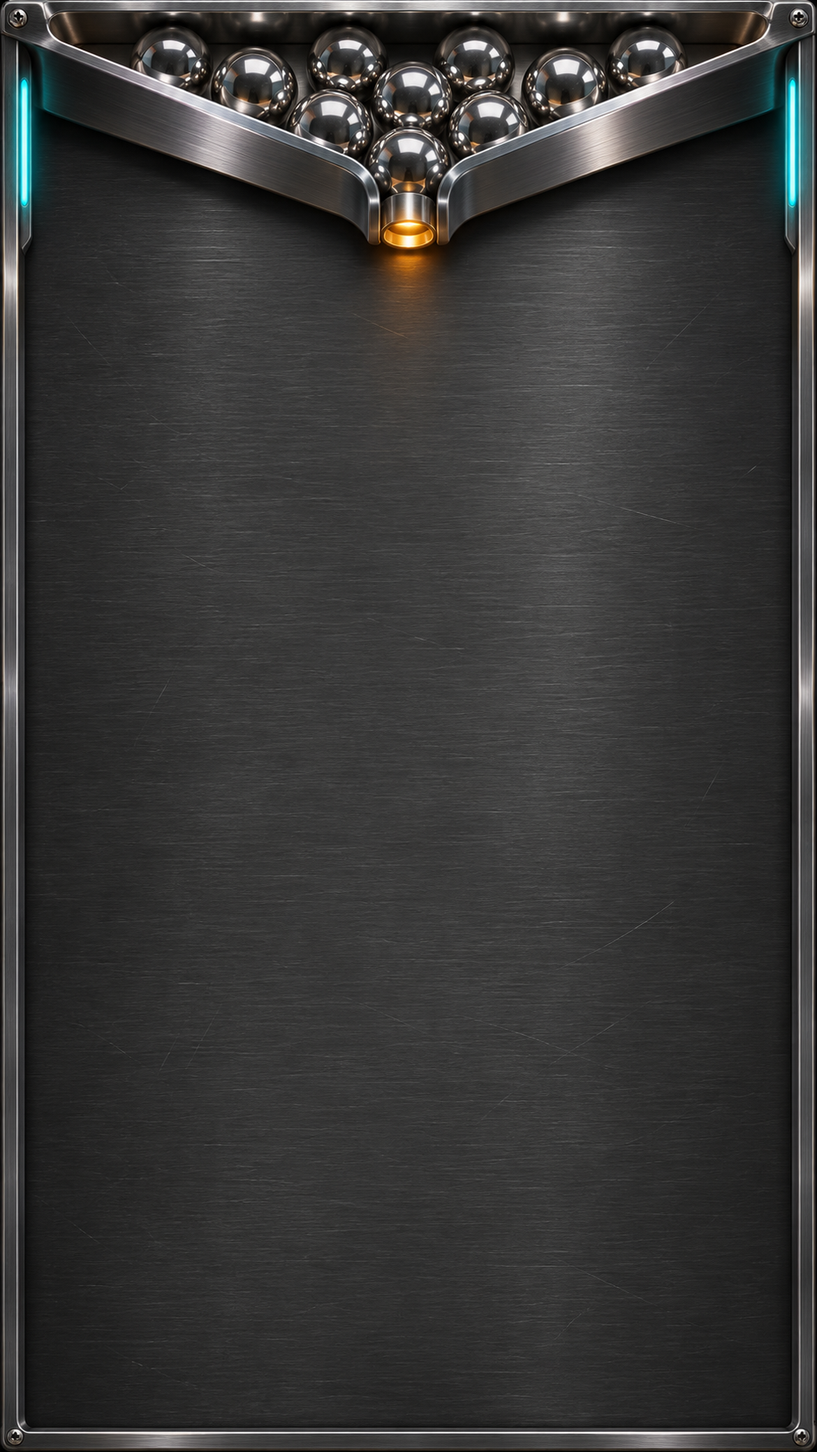
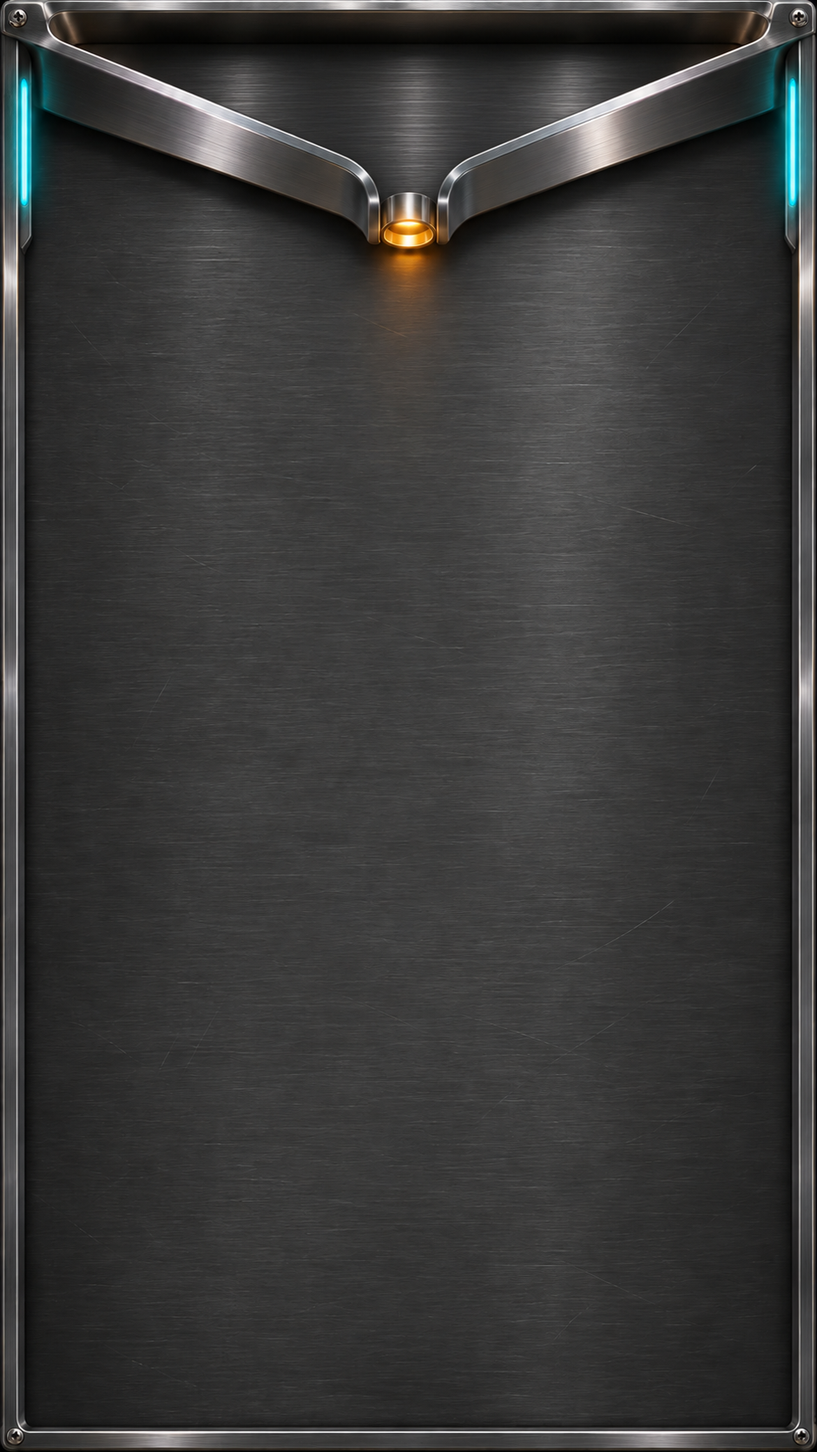
feat: switch to one larger ball with gravitational physics and no trails

diff --git a/src/game.ts b/src/game.ts
@@ -1,45 +1,50 @@
-import {collide,type Body,type Target} from './physics';
-export const W=420,H=720,LAUNCH={x:210,y:120},STEP=1/120;
+import {advanceFree,collide,reflect,type Body,type Target} from './physics';
+export const W=420,H=720,LAUNCH={x:210,y:132},STEP=1/120,GRAVITY=240,BALL_RADIUS=12;
 export type Phase='aim'|'volley'|'upgrade'|'over';
-export type Ball=Body&{age:number;trail:{x:number;y:number}[]};
+export type Ball=Body&{age:number};
 export type Effect={x:number;y:number;life:number;max:number;color:string;vx:number;vy:number;ring:boolean};
-export type Upgrade='swarm'|'power'|'field';
+export type Upgrade='elastic'|'power'|'field';
 export class Game{
- phase:Phase='aim';wave=1;score=0;bestCombo=0;combo=0;count=18;power=1;fieldLevel=0;balls:Ball[]=[];targets:Target[]=[];effects:Effect[]=[];
- angle=Math.PI/2;pending=0;timer=0;elapsed=0;paused=false;magnet:{x:number;y:number;life:number}|null=null;magnetUsed=false;nextId=0;seed:number;onHit:((kind:string)=>void)|null=null;
+ phase:Phase='aim';wave=1;score=0;bestCombo=0;combo=0;readonly count=1;power=3;restitution=.94;fieldLevel=0;balls:Ball[]=[];targets:Target[]=[];effects:Effect[]=[];
+ angle=Math.PI/2;elapsed=0;paused=false;magnet:{x:number;y:number;life:number}|null=null;magnetUsed=false;nextId=0;seed:number;onHit:((kind:string)=>void)|null=null;
  constructor(seed=Date.now()){this.seed=seed>>>0;this.addRow(453);this.addRow(531);}
  random(){this.seed=(Math.imul(1664525,this.seed)+1013904223)>>>0;return this.seed/4294967296;}
- addRow(y:number){for(let col=0;col<5;col++){if(this.random()<.16&&col!==2)continue;const kind=(['steel','prism','capacitor'] as const)[Math.floor(this.random()*3)];const hp=Math.max(2,Math.round((5+this.wave*2.5)*(kind==='capacitor'?.6:kind==='prism'?1.2:1)));this.targets.push({id:this.nextId++,x:66+col*72,y,size:57,kind,hp,maxHp:hp,flash:0});}}
+ addRow(y:number){for(let col=0;col<5;col++){if(this.random()<.35&&col!==2)continue;const kind=(['steel','prism','capacitor'] as const)[Math.floor(this.random()*3)];const hp=Math.max(2,Math.round((2+this.wave*.65)*(kind==='capacitor'?.7:kind==='prism'?1.25:1)));this.targets.push({id:this.nextId++,x:66+col*72,y,size:57,kind,hp,maxHp:hp,flash:0});}}
  aim(x:number,y:number){this.angle=Math.max(.16,Math.min(Math.PI-.16,Math.atan2(Math.max(15,y-LAUNCH.y),x-LAUNCH.x)));}
- fire(){if(this.phase!=='aim'||this.paused)return false;this.phase='volley';this.pending=this.count;this.timer=0;this.elapsed=0;this.combo=0;this.magnetUsed=false;return true;}
+ fire(){if(this.phase!=='aim'||this.paused)return false;this.phase='volley';this.elapsed=0;this.combo=0;this.magnetUsed=false;this.balls=[{...LAUNCH,vx:Math.cos(this.angle)*350,vy:Math.sin(this.angle)*350,r:BALL_RADIUS,age:0}];return true;}
  field(x:number,y:number){if(this.phase!=='volley'||this.magnetUsed||this.paused)return false;this.magnet={x:Math.max(45,Math.min(375,x)),y:Math.max(185,Math.min(625,y)),life:3.8+this.fieldLevel*.8};this.magnetUsed=true;return true;}
  burst(x:number,y:number,color:string,n=12){for(let i=0;i<n;i++){const a=Math.PI*2*i/n,s=35+(i%4)*33;this.effects.push({x,y,life:.45,max:.45,color,vx:Math.cos(a)*s,vy:Math.sin(a)*s,ring:false});}this.effects.push({x,y,life:.45,max:.45,color,vx:0,vy:0,ring:true});if(this.effects.length>420)this.effects.splice(0,this.effects.length-420);}
  damage(t:Target,damage:number){if(t.hp<=0)return;t.hp-=damage;t.flash=.12;this.score+=10*damage;this.combo++;this.bestCombo=Math.max(this.bestCombo,this.combo);this.onHit?.(t.kind);
-  if(t.hp<=0){this.score+=75;this.burst(t.x,t.y,t.kind==='capacitor'?'#75f8fa':'#ffc572');if(t.kind==='capacitor')for(const other of this.targets){if(other.hp>0&&Math.hypot(t.x-other.x,t.y-other.y)<135)this.damage(other,3+this.power*2);}}
+  if(t.hp<=0){this.score+=75;this.burst(t.x,t.y,t.kind==='capacitor'?'#75f8fa':'#ffc572');if(t.kind==='capacitor')for(const other of this.targets){if(other.hp>0&&Math.hypot(t.x-other.x,t.y-other.y)<135)this.damage(other,2+this.power);}}
  }
- recall(){if(this.phase==='volley'){this.balls=[];this.pending=0;this.finish();}}
- finish(){this.balls=[];this.pending=0;this.magnet=null;this.targets=this.targets.filter(t=>t.hp>0);for(const t of this.targets)t.y-=78;
+ recall(){if(this.phase==='volley'){this.balls=[];this.finish();}}
+ finish(){this.balls=[];this.magnet=null;this.targets=this.targets.filter(t=>t.hp>0);for(const t of this.targets)t.y-=39;
   if(this.targets.some(t=>t.y-t.size/2<184)){this.phase='over';return;}
-  this.wave++;this.count=Math.min(80,this.count+2);this.addRow(609);this.phase=this.wave%3===0?'upgrade':'aim';
+  this.wave++;if(this.wave%2===0||this.targets.length===0)this.addRow(609);this.phase=this.wave%3===0?'upgrade':'aim';
  }
- upgrade(choice:Upgrade){if(this.phase!=='upgrade')return;if(choice==='swarm')this.count=Math.min(80,this.count+6);if(choice==='power')this.power++;if(choice==='field')this.fieldLevel++;this.phase='aim';}
+ upgrade(choice:Upgrade){if(this.phase!=='upgrade')return;if(choice==='elastic')this.restitution=Math.min(.99,this.restitution+.02);if(choice==='power')this.power++;if(choice==='field')this.fieldLevel++;this.phase='aim';}
  update(dt:number){if(this.paused)return;
   for(const t of this.targets)t.flash=Math.max(0,t.flash-dt);
   for(const p of this.effects){p.life-=dt;p.x+=p.vx*dt;p.y+=p.vy*dt;}this.effects=this.effects.filter(p=>p.life>0);
-  if(this.phase!=='volley')return;this.elapsed+=dt;this.timer-=dt;
-  if(this.pending>0&&this.timer<=0){this.pending--;this.timer+=.065;this.balls.push({...LAUNCH,vx:Math.cos(this.angle)*440,vy:Math.sin(this.angle)*440,r:5,age:0,trail:[]});}
+  if(this.phase!=='volley')return;this.elapsed+=dt;
   if(this.magnet){this.magnet.life-=dt;if(this.magnet.life<=0)this.magnet=null;}
-  for(const b of this.balls){b.age+=dt;b.trail.unshift({x:b.x,y:b.y});if(b.trail.length>9)b.trail.pop();
-   if(this.magnet){const dx=this.magnet.x-b.x,dy=this.magnet.y-b.y,d=Math.hypot(dx,dy);if(d<230&&d>12){const f=520*(1-d/260);b.vx+=dx/d*f*dt;b.vy+=dy/d*f*dt;}}
-   const speed=Math.hypot(b.vx,b.vy);b.vx=b.vx/speed*440;b.vy=b.vy/speed*440;
-   b.x+=b.vx*dt;b.y+=b.vy*dt;
-   if(b.x<18+b.r){b.x=18+b.r;b.vx=Math.abs(b.vx);}if(b.x>402-b.r){b.x=402-b.r;b.vx=-Math.abs(b.vx);}
-   if(b.y<117){b.y=117;b.vy=Math.abs(b.vy);}
-   // Collector returns balls that fall through. A bounded lifetime prevents shallow-orbit soft locks.
-   for(const t of this.targets){if(t.hp>0&&collide(b,t)){this.damage(t,this.power);break;}}
+  for(const b of this.balls){b.age+=dt;
+   // Substeps keep travel below half the radius, preventing tunnelling at high speed.
+   const steps=Math.max(1,Math.ceil((Math.hypot(b.vx,b.vy)+1000*dt)*dt/(b.r*.45))),h=dt/steps;
+   for(let sub=0;sub<steps;sub++){
+    let ax=0,ay=GRAVITY;
+    // A softened central force accelerates continuously; no speed reset or teleportation.
+    if(this.magnet){const dx=this.magnet.x-b.x,dy=this.magnet.y-b.y,d2=dx*dx+dy*dy;const strength=3200000/Math.pow(d2+80*80,1.5);ax+=dx*strength;ay+=dy*strength;}
+    advanceFree(b,h,ax,ay);
+    if(b.x<18+b.r){b.x=18+b.r;reflect(b,{x:1,y:0},this.restitution);}if(b.x>402-b.r){b.x=402-b.r;reflect(b,{x:-1,y:0},this.restitution);}
+    if(b.y<112+b.r){b.y=112+b.r;reflect(b,{x:0,y:1},this.restitution);}
+    for(const t of this.targets){if(t.hp<=0)continue;const vx=b.vx,vy=b.vy;if(collide(b,t,this.restitution)){
+      // Resting contact does not damage a target. Use the normal impact speed from the impulse.
+      if(Math.hypot(b.vx-vx,b.vy-vy)/(1+this.restitution)>55)this.damage(t,this.power);
+    }}
+   }
   }
-  this.balls=this.balls.filter(b=>b.y<692&&b.age<16);
-  this.targets=this.targets.filter(t=>t.hp>0);
-  if((this.pending===0&&this.balls.length===0)||this.elapsed>23)this.finish();
+  this.balls=this.balls.filter(b=>b.y-b.r<692&&b.age<22);this.targets=this.targets.filter(t=>t.hp>0);
+  if(this.balls.length===0||this.elapsed>23)this.finish();
  }
 }

diff --git a/src/main.ts b/src/main.ts
@@ -4,7 +4,7 @@ import {Renderer} from './render';
 import {Sound} from './audio';
 const $=<T extends HTMLElement=HTMLElement>(id:string)=>document.getElementById(id) as T;
 document.querySelector('#app')!.innerHTML=`
-<aside class="intro"><div class="wordmark">FLUX<br><span>FOUNDRY</span></div><h1>磁核弹阵</h1><p class="tagline">每一次反弹，<br>都是下一场连锁的开始。</p><div class="rule"><b>01 / 精准弹射</b><p>拖动瞄准，松开发射整列钢珠。<br>斜面改变轨迹，电容引发连锁。</p></div><div class="rule"><b>02 / 操控磁场</b><p>发射后按「磁场」，再点击场地。<br>抓住一次改变球路的机会。</p></div><div class="rule"><b>03 / 构筑弹阵</b><p>每逢第 3 波选择升级。清除靶阵，<br>阻止它们上升至警戒线。</p></div><small>原创物理弹射游戏 · v0.1.0<br>WINDOWS / MOBILE WEB</small></aside>
+<aside class="intro"><div class="wordmark">FLUX<br><span>FOUNDRY</span></div><h1>磁核弹阵</h1><p class="tagline">每一次反弹，<br>都是下一场连锁的开始。</p><div class="rule"><b>01 / 精准弹射</b><p>拖动瞄准，松开发射一颗钢珠。<br>斜面改变轨迹，电容引发连锁。</p></div><div class="rule"><b>02 / 操控磁场</b><p>发射后按「磁场」，再点击场地。<br>抓住一次改变球路的机会。</p></div><div class="rule"><b>03 / 构筑弹阵</b><p>每逢第 3 波选择升级。清除靶阵，<br>阻止它们上升至警戒线。</p></div><small>原创物理弹射游戏 · v0.1.0<br>WINDOWS / MOBILE WEB</small></aside>
 <section class="machine" aria-label="磁核弹阵游戏"><header class="hud"><div class="brand"><span class="slashes">///</span><div>FLUX <strong>FOUNDRY</strong><small>磁核弹阵</small></div></div><div class="score"><span>得分</span><b id="score">000000</b></div><div class="wave"><span>波次</span><b id="wave">01</b></div></header>
 <div class="arena"><canvas id="game" tabindex="0" aria-label="弹球场地：拖动瞄准，松开发射；方向键调整角度，空格发射；M 磁场，R 收球，P 暂停"></canvas><div id="overlay" class="overlay" hidden></div><div id="toast" class="toast" role="status" aria-live="polite"></div></div>
 <footer class="console"><div class="controls"><button id="magnet" class="action cyan"><span class="control-symbol">∩</span><span>磁场<small>M · 每轮一次</small></span></button><div class="energy"><span id="energyLabel">磁场就绪</span><div id="meter"><i></i><i></i><i></i><i></i><i></i></div></div><button id="recall" class="action amber"><span class="control-symbol">↶</span><span>收球<small>R · 结束本轮</small></span></button></div><div class="utility"><button id="pause" aria-label="暂停游戏">暂停</button><button id="sound" aria-pressed="false">声音：关</button><button id="motion" aria-pressed="false">特效：全</button><button id="help">玩法</button><span id="best">最佳 0</span></div></footer></section>
@@ -36,7 +36,7 @@ document.addEventListener('keydown',e=>{if(e.target instanceof HTMLButtonElement
  if(e.key===' '){e.preventDefault();sound.unlock();game.fire();}if(e.key.toLowerCase()==='r')game.recall();if(e.key.toLowerCase()==='m'){if(placing){game.field(210,410);placing=false;}else magnet();}
 });
 document.addEventListener('visibilitychange',()=>{if(document.hidden&&!game.paused&&(game.phase==='aim'||game.phase==='volley'))pause();});
-function phaseChanged(){placing=false;if(game.phase==='upgrade'){showOverlay('<span class="dialog-label">REACTOR UPGRADE</span><h2>选择你的进化方向</h2><p>升级将持续至本局结束。</p><div class="upgrades"><button data-upgrade="swarm"><b>蜂群弹阵</b><span>额外增加 6 颗钢珠</span></button><button data-upgrade="power"><b>钨芯冲击</b><span>每次碰撞伤害 +1</span></button><button data-upgrade="field"><b>长效磁阱</b><span>磁场持续时间 +0.8 秒</span></button></div>');for(const el of document.querySelectorAll<HTMLButtonElement>('[data-upgrade]'))el.onclick=()=>{game.upgrade(el.dataset.upgrade as Upgrade);$('overlay').hidden=true;canvas.focus();};}
+function phaseChanged(){placing=false;if(game.phase==='upgrade'){showOverlay('<span class="dialog-label">REACTOR UPGRADE</span><h2>选择你的进化方向</h2><p>升级将持续至本局结束。</p><div class="upgrades"><button data-upgrade="elastic"><b>精密回弹</b><span>减少碰撞损耗，保留更多动能</span></button><button data-upgrade="power"><b>钨芯冲击</b><span>每次碰撞伤害 +1</span></button><button data-upgrade="field"><b>长效磁阱</b><span>磁场持续时间 +0.8 秒</span></button></div>');for(const el of document.querySelectorAll<HTMLButtonElement>('[data-upgrade]'))el.onclick=()=>{game.upgrade(el.dataset.upgrade as Upgrade);$('overlay').hidden=true;canvas.focus();};}
  if(game.phase==='over'){best=Math.max(best,game.score);save();showOverlay(`<span class="dialog-label">CORE OVERLOADED</span><h2>反应堆已过载</h2><div class="final-score">${game.score.toLocaleString()}</div><p>坚持 ${game.wave} 波 · 最高 ${game.bestCombo} 连击</p><button id="restart" class="primary">重新点燃核心</button>`);$('restart').onclick=()=>{game=new Game();game.onHit=k=>sound.hit(k);previousPhase='aim';$('overlay').hidden=true;canvas.focus();};}
 }
 function ui(){if(game.phase!==previousPhase){previousPhase=game.phase;phaseChanged();}if(game.score>best){best=game.score;save();}$('score').textContent=String(game.score).padStart(6,'0');$('wave').textContent=String(game.wave).padStart(2,'0');$('best').textContent=`最佳 ${best.toLocaleString()}`;
@@ -50,5 +50,5 @@ new ResizeObserver(()=>renderer.resize()).observe(canvas);
 renderer.ready.then(()=>{renderer.resize();requestAnimationFrame(frame);}).catch(()=>toast('材质资源加载失败，请刷新页面重试'));
 if('serviceWorker' in navigator&&location.protocol!=='file:'&&!import.meta.env.DEV)void navigator.serviceWorker.register('./sw.js').catch(()=>{});
 // A read-only snapshot enables release smoke tests without exposing game mutations.
-Object.defineProperty(window,'fluxSnapshot',{value:()=>({phase:game.phase,wave:game.wave,score:game.score,balls:game.balls.length,pending:game.pending,targets:game.targets.length,paused:game.paused,magnetUsed:game.magnetUsed,count:game.count,power:game.power})});
+Object.defineProperty(window,'fluxSnapshot',{value:()=>({phase:game.phase,wave:game.wave,score:game.score,balls:game.balls.length,targets:game.targets.length,paused:game.paused,magnetUsed:game.magnetUsed,count:game.count,power:game.power})});
 

diff --git a/tests/game.test.ts b/tests/game.test.ts
@@ -1,17 +1,22 @@
 import {test} from 'node:test';
 import assert from 'node:assert/strict';
 import {Game,STEP} from '../src/game';
-import {collide,type Target} from '../src/physics';
+import {advanceFree,reflect,collide,type Target} from '../src/physics';
 const target=(kind:Target['kind'],x=210,y=400):Target=>({id:1,x,y,kind,size:60,hp:8,maxHp:8,flash:0});
 test('square reflection preserves speed and separates ball',()=>{const b={x:210,y:367,vx:30,vy:440,r:5};const speed=Math.hypot(b.vx,b.vy);assert.ok(collide(b,target('steel')));assert.ok(b.vy<0);assert.ok(b.y<=365.1);assert.ok(Math.abs(Math.hypot(b.vx,b.vy)-speed)<.001);});
 test('triangle slope deflects vertically falling ball sideways',()=>{const b={x:195,y:393,vx:0,vy:440,r:5};assert.ok(collide(b,target('prism')));assert.ok(Math.abs(b.vx)>100);assert.ok(Math.abs(Math.hypot(b.vx,b.vy)-440)<.01);});
 test('circle handles center overlap without NaN',()=>{const b={x:210,y:400,vx:0,vy:440,r:5};collide(b,target('capacitor'));assert.ok(Number.isFinite(b.x)&&Number.isFinite(b.vy));});
 test('departing ball does not deal repeated collision damage',()=>{const b={x:210,y:368,vx:0,vy:-440,r:5};assert.equal(collide(b,target('steel')),false);});
 test('seeded levels are reproducible',()=>assert.deepEqual(new Game(42).targets,new Game(42).targets));
-test('pause freezes an active volley and rejects field deployment',()=>{const g=new Game(1);g.fire();g.paused=true;g.update(1);assert.equal(g.pending,g.count);assert.equal(g.field(210,400),false);});
+test('pause freezes an active volley and rejects field deployment',()=>{const g=new Game(1);g.fire();g.paused=true;g.update(1);assert.equal(g.balls.length,1);assert.equal(g.balls[0].age,0);assert.equal(g.field(210,400),false);});
 test('magnet can be deployed once per volley and resets next volley',()=>{const g=new Game(1);assert.equal(g.field(1,1),false);g.fire();assert.ok(g.field(210,400));assert.equal(g.field(210,410),false);g.recall();g.fire();assert.ok(g.field(210,400));});
 test('capacitor death chains once into nearby targets',()=>{const g=new Game(1);g.targets=[{...target('capacitor'),hp:1},{...target('steel',270,400),id:2}];g.damage(g.targets[0],1);assert.equal(g.targets[1].hp,3);const score=g.score;g.damage(g.targets[0],1);assert.equal(g.score,score);});
-test('third wave offers a persistent upgrade',()=>{const g=new Game(1);g.fire();g.recall();g.fire();g.recall();assert.equal(g.phase,'upgrade');g.upgrade('power');assert.equal(g.power,2);assert.equal(g.phase,'aim');});
-test('recalled untouched targets eventually trigger game over',()=>{const g=new Game(1);for(let i=0;i<20&&g.phase!=='over';i++){if(g.phase==='upgrade')g.upgrade('swarm');g.fire();g.recall();}assert.equal(g.phase,'over');assert.equal(g.fire(),false);});
+test('third wave offers a persistent upgrade',()=>{const g=new Game(1);g.fire();g.recall();g.fire();g.recall();assert.equal(g.phase,'upgrade');g.upgrade('power');assert.equal(g.power,4);assert.equal(g.phase,'aim');});
+test('recalled untouched targets eventually trigger game over',()=>{const g=new Game(1);for(let i=0;i<20&&g.phase!=='over';i++){if(g.phase==='upgrade')g.upgrade('elastic');g.fire();g.recall();}assert.equal(g.phase,'over');assert.equal(g.fire(),false);});
 test('all shot angles terminate within the round limit with finite state',()=>{for(const angle of [.16,.4,.9,1.57,2.3,2.98]){const g=new Game(555);g.angle=angle;g.fire();for(let i=0;i<24/STEP&&g.phase==='volley';i++){g.update(STEP);for(const b of g.balls)assert.ok(Number.isFinite(b.x)&&Number.isFinite(b.vy));}assert.notEqual(g.phase,'volley');}});
 test('rows never overlap after multiple recalls',()=>{const g=new Game(2);for(let n=0;n<3;n++){g.fire();g.recall();if(g.phase==='upgrade')g.upgrade('field');}for(const a of g.targets)for(const b of g.targets)if(a.id!==b.id&&a.x===b.x)assert.ok(Math.abs(a.y-b.y)>=57);});
+test('free flight agrees with the analytic gravitational parabola',()=>{const b={x:0,y:0,vx:100,vy:-100,r:12};for(let i=0;i<120;i++)advanceFree(b,STEP);assert.ok(Math.abs(b.x-100)<1e-8);assert.ok(Math.abs(b.y-20)<1e-8);assert.ok(Math.abs(b.vy-140)<1e-8);});
+test('inelastic reflection preserves tangent and loses only normal kinetic energy',()=>{const b={x:0,y:0,vx:120,vy:400,r:12};reflect(b,{x:0,y:-1},.9);assert.equal(b.vx,120);assert.equal(b.vy,-360);assert.ok(b.vx*b.vx+b.vy*b.vy<120*120+400*400);});
+test('gravity accelerates the single ball without forced constant speed',()=>{const g=new Game(1);g.targets=[];g.fire();const v=g.balls[0].vy;for(let i=0;i<12;i++)g.update(STEP);assert.ok(Math.abs(g.balls[0].vy-v-24)<1e-8);assert.equal(g.balls.length,1);assert.equal(g.balls[0].r,12);});
+test('high-speed substeps prevent crossing a steel target',()=>{const g=new Game(1);g.fire();g.targets=[{...target('steel'),hp:100}];Object.assign(g.balls[0],{x:210,y:340,vx:0,vy:5000});for(let i=0;i<2;i++)g.update(STEP);assert.ok(g.targets[0].hp<100);assert.ok(g.balls[0].vy<0);});
+test('all upgrades and repeated fire requests preserve the one-ball invariant',()=>{const g=new Game(20);for(const option of ['elastic','power','field'] as const){g.phase='upgrade';g.upgrade(option);g.fire();g.fire();assert.equal(g.balls.length,1);assert.equal(g.count,1);g.recall();}assert.ok(g.restitution<1);});

diff --git a/src/render.ts b/src/render.ts
@@ -16,16 +16,15 @@ export class Renderer{
   c.setLineDash([3,6]);c.strokeStyle='#ce7b6555';c.lineWidth=1;c.beginPath();c.moveTo(29,184);c.lineTo(391,184);c.stroke();c.setLineDash([]);c.fillStyle='#ae8275';c.font='8px "Segoe UI",sans-serif';c.fillText('过载警戒线 · 不要让靶块抵达这里',210,177);
   c.strokeStyle='#9bafaa44';c.beginPath();c.moveTo(40,685);c.lineTo(380,685);c.stroke();c.fillStyle='#9aa9a4';c.fillText('磁  力  回  收  槽',210,703);
   if(g.phase==='aim'){
-   c.save();c.setLineDash([3,9]);c.lineDashOffset=reduced?0:-time*25;c.strokeStyle=aiming?'#ffd291bb':'#ffd29166';c.lineWidth=1.4;
-   let x=LAUNCH.x,y=LAUNCH.y,dx=Math.cos(g.angle),dy=Math.sin(g.angle);c.beginPath();c.moveTo(x,y);
-   for(let i=0;i<65;i++){x+=dx*8;y+=dy*8;if(x<25||x>395)dx=-dx;if(y>670)break;c.lineTo(x,y);}c.stroke();c.restore();
-   this.sprite('ball',LAUNCH.x,LAUNCH.y,13);
+   // A short direction marker, never a trajectory or a flight trail.
+   c.save();c.translate(LAUNCH.x,LAUNCH.y);c.rotate(g.angle);c.fillStyle='#efbd79';c.beginPath();c.moveTo(28,-4);c.lineTo(35,0);c.lineTo(28,4);c.fill();c.restore();
+   this.sprite('ball',LAUNCH.x,LAUNCH.y,24);
    if(!aiming&&g.wave===1){c.fillStyle='#f4dbc0';c.font='13px "Segoe UI",sans-serif';c.fillText('拖动瞄准，松开发射',210,292);c.fillStyle='#aab7b9';c.font='10px "Segoe UI",sans-serif';c.fillText('击碎电容，让能量在靶阵间连锁',210,315);}
   }
   for(const t of g.targets){c.save();if(t.flash>0){c.shadowColor=t.kind==='capacitor'?'#72efff':'#ffbb67';c.shadowBlur=16;}this.sprite(t.kind,t.x,t.y,t.size+5);c.shadowBlur=0;c.textAlign='center';c.textBaseline='middle';c.font=`700 ${t.hp>99?17:21}px "Bahnschrift","Segoe UI",sans-serif`;c.shadowColor='#000';c.shadowBlur=4;c.fillStyle=t.kind==='capacitor'?'#d4ffff':'#f2eee5';c.fillText(String(Math.max(0,t.hp)),t.x,t.y+(t.kind==='prism'?9:1));c.restore();}
   if(g.magnet){const m=g.magnet;c.save();c.translate(m.x,m.y);c.strokeStyle='#67ebf7';c.shadowColor='#55e8ff';c.shadowBlur=14;c.lineWidth=2;for(let i=0;i<3;i++){c.globalAlpha=.7-i*.2;c.beginPath();c.arc(0,0,30+i*14+(!reduced?Math.sin(time*3)*3:0),time*(i%2?1:-1),time*(i%2?1:-1)+Math.PI*1.7);c.stroke();}c.restore();}
-  for(const b of g.balls){if(!reduced){c.save();c.strokeStyle=g.magnet?'#74f4ff88':'#ffce8a88';c.lineWidth=3;c.beginPath();c.moveTo(b.x,b.y);for(const t of b.trail)c.lineTo(t.x,t.y);c.stroke();c.restore();}this.sprite('ball',b.x,b.y,12);}
+  for(const b of g.balls)this.sprite('ball',b.x,b.y,b.r*2);
   if(!reduced)for(const p of g.effects){c.save();c.globalAlpha=p.life/p.max;c.strokeStyle=p.color;c.fillStyle=p.color;c.shadowColor=p.color;c.shadowBlur=8;if(p.ring){c.lineWidth=1.5;c.beginPath();c.arc(p.x,p.y,8+(1-p.life/p.max)*43,0,Math.PI*2);c.stroke();}else c.fillRect(p.x,p.y,2.5,2.5);c.restore();}
-  if(g.phase==='volley'){c.fillStyle='#f9bd72';c.font='600 15px "Bahnschrift",sans-serif';c.fillText(`${g.combo} 连击`,210,145);c.fillStyle='#c6cfd0';c.font='9px "Segoe UI",sans-serif';c.fillText(`在途 ${g.balls.length}  ·  待发 ${g.pending}`,210,160);}
+  if(g.phase==='volley'){c.fillStyle='#f9bd72';c.font='600 15px "Bahnschrift",sans-serif';c.fillText(`${g.combo} 连击`,210,145);c.fillStyle='#c6cfd0';c.font='9px "Segoe UI",sans-serif';c.fillText(`单球弹射  ·  重力与真实回弹`,210,160);}
  }
 }

diff --git a/src/physics.ts b/src/physics.ts
@@ -6,11 +6,13 @@ export function vertices(t:Target):Vec[]{
  const r=t.size/2;
  return t.kind==='prism'?[{x:t.x,y:t.y-r},{x:t.x+r,y:t.y+r},{x:t.x-r,y:t.y+r}]:[{x:t.x-r,y:t.y-r},{x:t.x+r,y:t.y-r},{x:t.x+r,y:t.y+r},{x:t.x-r,y:t.y+r}];
 }
-export function reflect(b:Body,n:Vec){const d=b.vx*n.x+b.vy*n.y;if(d<0){b.vx-=2*d*n.x;b.vy-=2*d*n.y;return true;}return false;}
-export function collide(b:Body,t:Target):boolean{
+// Frictionless contact: normal energy is reduced, tangential velocity is preserved.
+export function reflect(b:Body,n:Vec,restitution=1){const d=b.vx*n.x+b.vy*n.y;if(d<0){b.vx-=(1+restitution)*d*n.x;b.vy-=(1+restitution)*d*n.y;return true;}return false;}
+export function advanceFree(b:Body,dt:number,ax=0,ay=240){b.x+=b.vx*dt+.5*ax*dt*dt;b.y+=b.vy*dt+.5*ay*dt*dt;b.vx+=ax*dt;b.vy+=ay*dt;}
+export function collide(b:Body,t:Target,restitution=1):boolean{
  if(t.kind==='capacitor'){
   const dx=b.x-t.x,dy=b.y-t.y,d=Math.hypot(dx,dy),r=t.size/2+b.r;
-  if(d>=r)return false;const n=d>0?{x:dx/d,y:dy/d}:{x:0,y:-1};b.x=t.x+n.x*r;b.y=t.y+n.y*r;return reflect(b,n);
+  if(d>=r)return false;const n=d>0?{x:dx/d,y:dy/d}:{x:0,y:-1};b.x=t.x+n.x*r;b.y=t.y+n.y*r;return reflect(b,n,restitution);
  }
  const v=vertices(t);let best=Infinity,point={x:0,y:0},normal={x:0,y:0},inside=true;
  for(let i=0;i<v.length;i++){
@@ -21,5 +23,5 @@ export function collide(b:Body,t:Target):boolean{
  }
  if(!inside&&best>=b.r)return false;
  const n=inside||best<.0001?normal:{x:(b.x-point.x)/best,y:(b.y-point.y)/best};
- b.x=point.x+n.x*(b.r+.02);b.y=point.y+n.y*(b.r+.02);return reflect(b,n);
+ b.x=point.x+n.x*(b.r+.02);b.y=point.y+n.y*(b.r+.02);return reflect(b,n,restitution);
 }

diff --git a/README.md b/README.md
@@ -1,24 +1,25 @@
 # 磁核弹阵 · Flux Foundry
 
-一款竖版、多球、物理反弹游戏。钢珠掠过机加工金属，电容在靶阵间连锁放电；用一次主动磁场，改变整轮的球路。
+一款竖版、单球、物理反弹游戏。钢珠掠过机加工金属，电容在靶阵间连锁放电；用一次主动磁场，改变整轮的球路。
 
 **在线游玩：[ax2.github.io/flux-foundry](https://ax2.github.io/flux-foundry/)** · **[Windows 下载](https://github.com/ax2/flux-foundry/releases)** · MIT
 
-![桌面实机画面](docs/iterations/Stage-01/desktop-1440x1000.png)
+![桌面实机画面](docs/iterations/Stage-01/singleball-desktop-1440x1000.png)
 
 ## 玩法
 
-- 在场地内拖动瞄准，松开手指或鼠标发射整列钢珠；钢珠落到底部自动回收。
+- 在场地内拖动瞄准，松开手指或鼠标发射一颗较大的钢珠；钢珠落到底部自动回收。
 - 圆形青色电容被击破会伤害周边靶块，三角铜靶按斜面反射。
 - 发射后按「磁场」，再点击场地部署吸引场，每轮一次。
-- 每 3 波从钢珠数量、碰撞伤害、磁场时长中选择升级。
+- 每 3 波从回弹效率、碰撞伤害、磁场时长中选择升级。
 - 每轮剩余靶块上升；碰到发射口下方警戒线即失败。「收球」会提前结束本轮，并推进靶阵。
 - 键盘：左右键瞄准，空格发射，M 选磁场（再按 M 在中央部署），R 收球，P/Esc 暂停。
+- 不显示飞行轨迹、预测路径或拖尾。重力决定自由飞行，碰撞只损耗法向动能，保持切向速度；磁场作为显式外力连续加速。
 - 支持声音开关、简化特效、自动失焦暂停、最佳分数本地保存。
 
 ## 运行与平台
 
-Windows x64：Release 的 `Flux-Foundry-0.1.0-Windows-x64.exe` 为便携启动程序，直接双击。完整运行目录保留在本地 `releases/v0.1.0/win-unpacked/`；没有生成游戏 ZIP。初版未签名。
+Windows x64：Release 的 `Flux-Foundry-0.1.0-Windows-x64.exe` 为便携启动程序，直接双击。完整运行目录保留在本地 `releases/v0.1.0-singleball/win-unpacked/`；没有生成游戏 ZIP。初版未签名。
 
 手机：打开在线地址，竖屏触控游玩。首次联网加载后可离线重开；支持的浏览器可添加到主屏幕。此阶段交付手机 Web/PWA，未交付 Android APK 或 iOS 原生安装包。真实 Android/iOS 设备兼容性与手感尚待验收。
 

diff --git a/docs/iterations/Stage-01/worklog.md b/docs/iterations/Stage-01/worklog.md
@@ -39,3 +39,13 @@
 - 首次云端 Validate 因声音开关 UI 下一帧更新与即时断言竞争而失败；改为等待 aria-pressed 状态后，本地 33 条重新通过。
 - GitHub Pages 首次部署 workflow 42223394459 成功。
 - 每周日北京时间 20:00 发布检查已创建；只发布有实际变更且验证通过的版本。
+
+## 用户修订：单球物理（2026-11-06）
+用户明确要求：只需一颗更大弹珠、不显示发射后的轨迹、不带拖尾、物理规律优先，无需完全遵循参考截图。
+- 当前实现取代本文件早期多球方案：单球半径 12（原为 5），渲染直径 24（原为 12）；没有 trail 历史数组，没有飞行路径线，也取消发射前长预测线，仅保留短方向标记。
+- 移除强制 440 恒速；初速 350，恒定重力 240，以解析常加速度位移积分。碰撞恢复系数 0.94，保持切向速度、减少法向能量。精密回弹升级上限 0.99，不凭空增加能量。
+- 自适应子步限制单步运动距离，避免高速穿透；低速静止接触不产生伤害。磁场使用软化中心力，连续施力，不瞬移、不重设速度。
+- 靶阵每轮上移 39，每两轮补一行；初始伤害 3，耐久随单球节奏下调。蜂群升级替换为精密回弹。
+- 背景漏斗里的装饰钢珠也已通过内置 Image Gen 移除，避免与单球方向冲突；原版背景可在早期 Git 提交追溯。
+- 新增抛物线解析解、法向损耗/切向守恒、高速防穿透、单球不变量测试。当前 17 项单测通过。
+- 旧 releases/v0.1.0 多球本地候选尚未发布，标为历史候选；最终单球版在 releases/v0.1.0-singleball。

diff --git a/docs/iterations/Stage-01/assessment.md b/docs/iterations/Stage-01/assessment.md
@@ -24,3 +24,6 @@
 - Windows 首版未签名；发布前必须另行验证完整目录和 EXE 启动。
 - 素材使用原创生成资产，未使用原截图中的角色、商标或音轨。未对其他原作实现做来源不可证的推断。
 - 自动发布必须以测试和档案同步为门槛，不按日期生成空版本。
+
+## 单球修订最新验证（取代上述多球验收的当前版本结论）
+17 项逻辑/物理测试及 36 条浏览器断言通过，包含解析抛物线一致性、切向速度保持与法向能量损耗、5000 单位/秒高速防穿透、升级后仍只有一球；桌面和两种手机尺寸实测发射时 balls=1。已去除预测路径与飞行拖尾，背景也不再有装饰球。截图 singleball-desktop-1440x1000.png、singleball-mobile-390x844.png。旧截图明确保留为历史候选，不代表当前版本。当前以用户单球物理要求为视觉与玩法准则；原始概念仅作材质参考。

diff --git a/CHANGELOG.md b/CHANGELOG.md
@@ -2,10 +2,11 @@
 
 ## 0.1.0 — 2026-11-06
 
+- 按用户修订改为单颗大钢珠，无拖尾、无轨迹；重力、非完全弹性反射、自适应子步防穿透。
 - 首个竖版可玩版本，Windows 离线应用与手机触屏网页共享逻辑。
-- 顶部多球发射、三种材质与几何靶、真实三角边反射、电容连锁。
+- 顶部单球发射、三种材质与几何靶、真实三角边反射、电容连锁。
 - 主动磁场、每三波升级、逐轮推进、失败与重开。
-- 粒子、光轨、磁环、合成碰撞音；暂停、简化特效、本地纪录。
+- 碰撞粒子、磁环、合成碰撞音；暂停、简化特效、本地纪录。
 - MIT 源码、原创美术、固定步长测试、自动静态部署与 Windows 发布流水线。
 
 限制：Windows 未签名；手机为 Web/PWA；真实手机、长时间数值平衡、人工音频和手感验收未完成。

diff --git a/docs/design/assets.md b/docs/design/assets.md
@@ -12,3 +12,6 @@
 主提示：portrait 9:16 realistic dark graphite brushed metal playfield; narrow steel rails and screws; shallow V-shaped hopper of chrome balls only in top 15%, central amber nozzle; below y18% entirely empty plate; no targets, no UI, no text. Code-native collision arena and HUD overlay.
 
 Canvas uses source rectangles to sample the transparent atlas; original PNG retained. No generated screenshot is used as a fake interactive UI.
+
+## 单球背景修订
+2026-11-06 使用内置 Image Gen 编辑 arena.png：保持机加工材质、视角、导轨和喷口，仅移除漏斗中全部静态钢珠，留空金属内腔。用户要求单颗活动弹珠，活动球仍由透明图集实时渲染。
